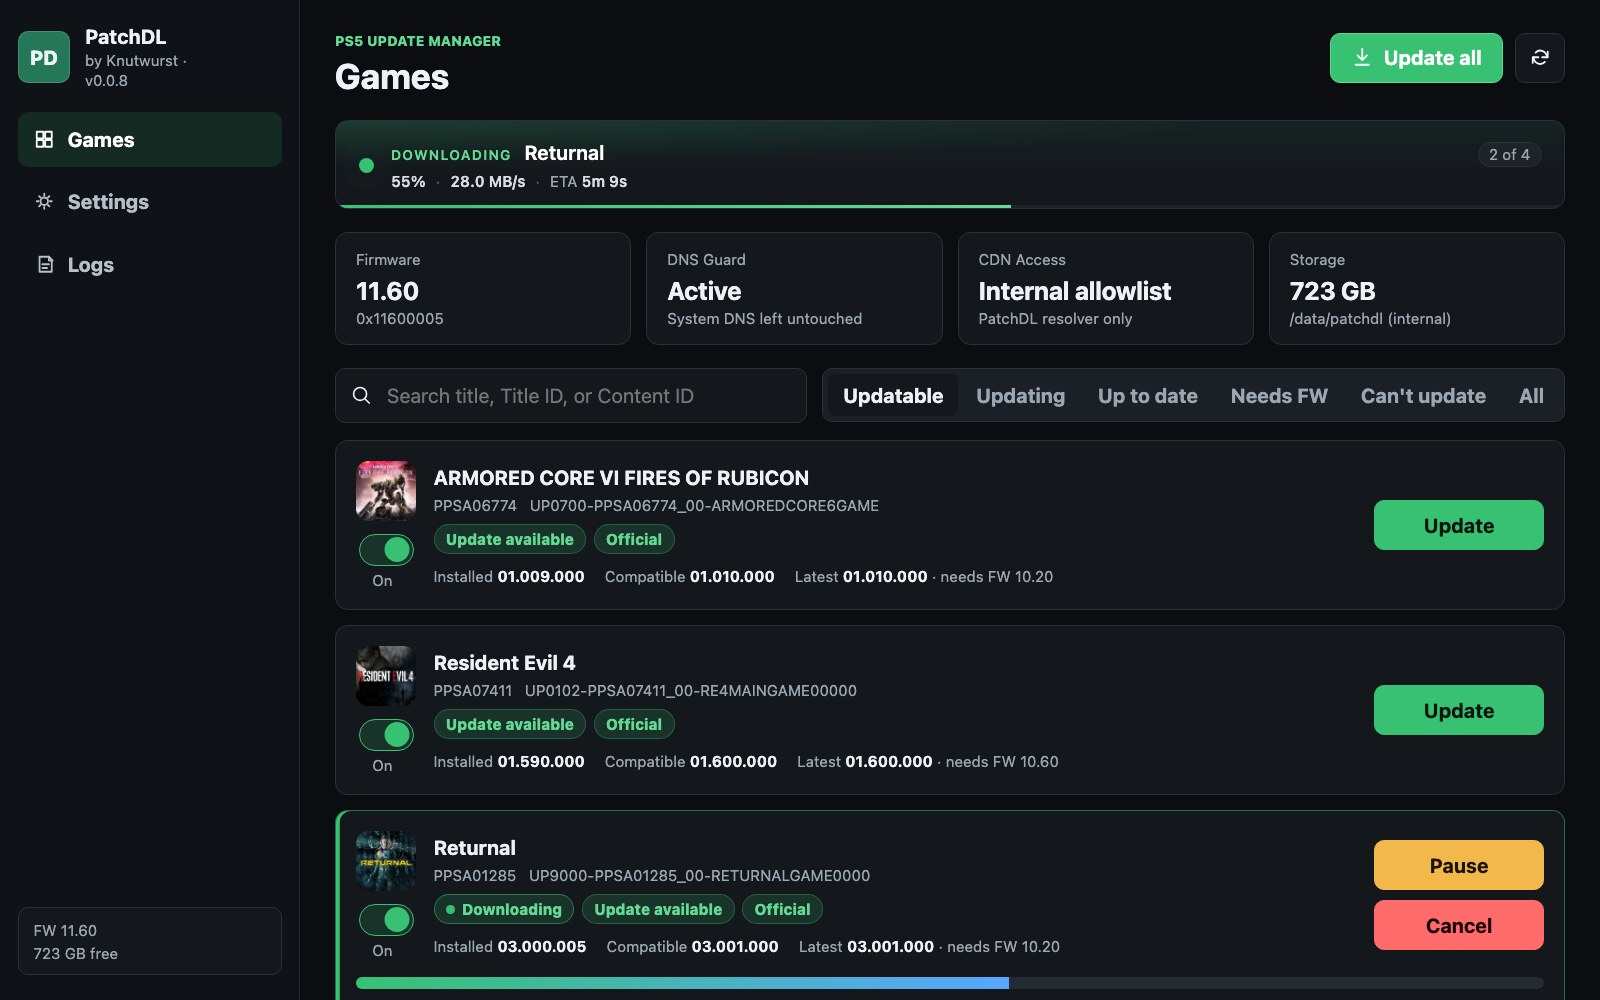
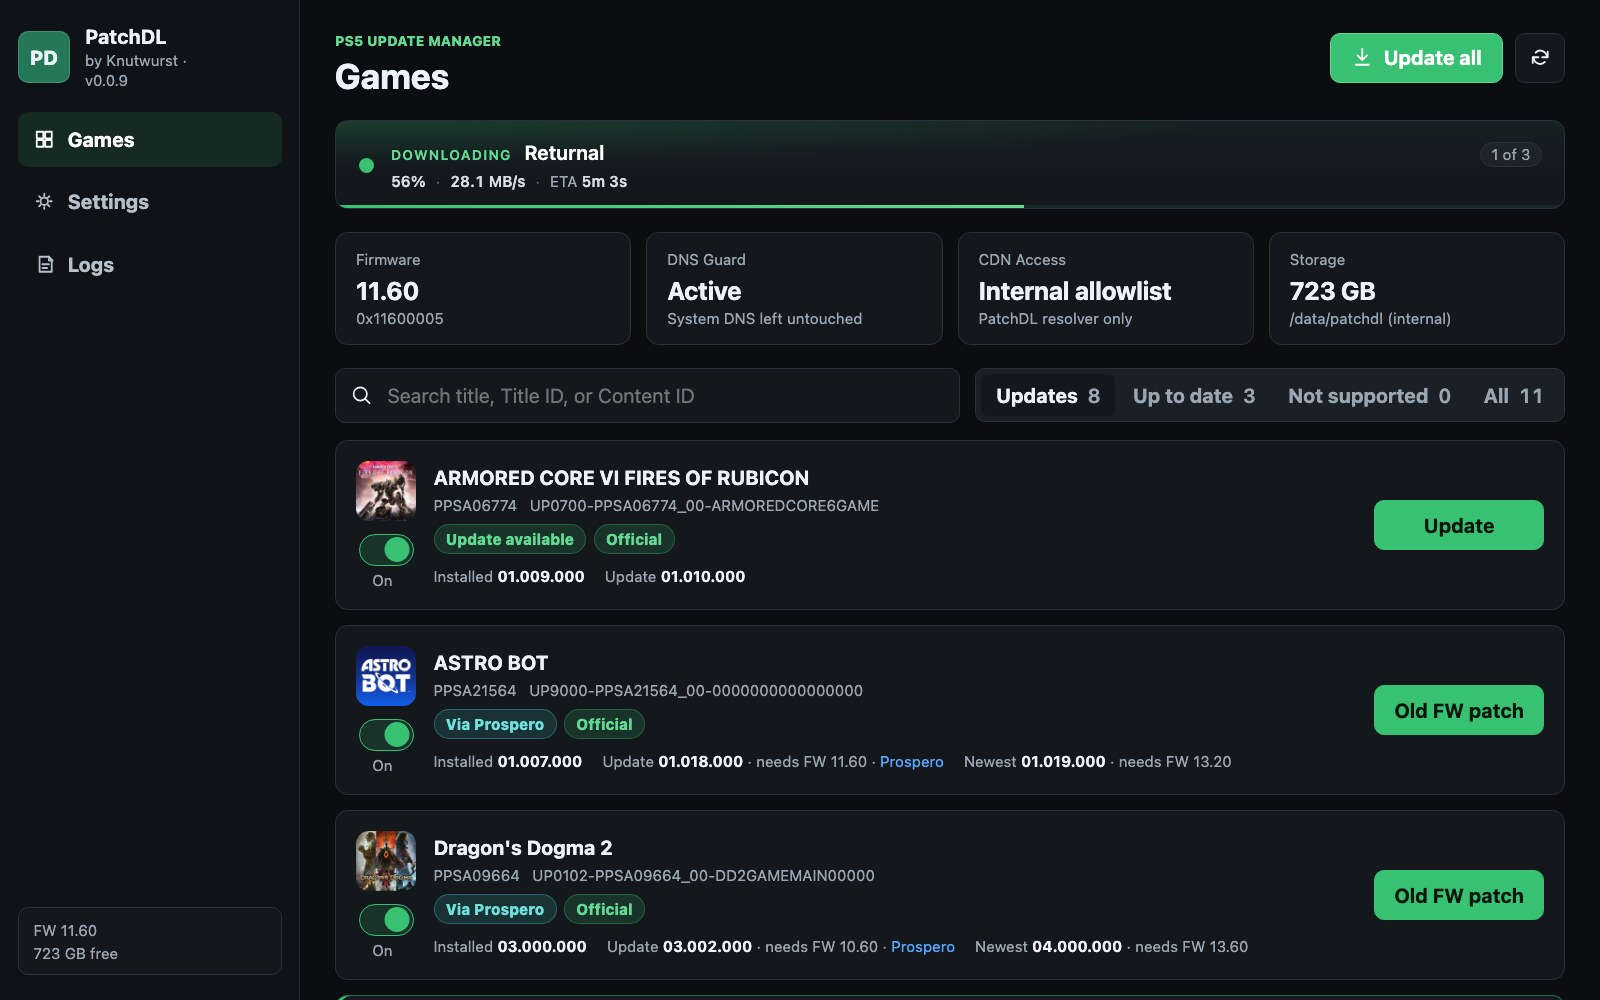
README: new screenshots with the old-firmware flow on TV and phone

diff --git a/README.md b/README.md
@@ -1,7 +1,7 @@
 <h1 align="center">PatchDL</h1>
 
 <p align="center">
-  <img src="docs/images/hero.jpg" alt="PatchDL in a desktop browser and on a phone, downloading a game update" width="900">
+  <img src="docs/images/hero.jpg" alt="PatchDL in a desktop browser and on a phone, fetching a patch that runs on an older firmware" width="900">
 </p>
 
 <p align="center">
@@ -46,7 +46,7 @@
     <td align="center" width="50%"><img src="docs/images/library.jpg" width="420" alt="Full library with game icons, sorted by name"><br><sub><b>Library</b> &nbsp;·&nbsp; icons, versions and firmware needs, A to Z</sub></td>
   </tr>
   <tr>
-    <td align="center" width="50%"><img src="docs/images/queue.jpg" width="420" alt="Updating view with two queued updates"><br><sub><b>Updating</b> &nbsp;·&nbsp; the queue, next to the download that's running</sub></td>
+    <td align="center" width="50%"><img src="docs/images/oldfw.jpg" width="420" alt="QR code on the TV and the step-by-step guide on a phone"><br><sub><b>Older firmware</b> &nbsp;·&nbsp; scan on the TV, paste one link on your phone</sub></td>
     <td align="center" width="50%"><img src="docs/images/settings.jpg" width="420" alt="Settings view"><br><sub><b>Settings</b> &nbsp;·&nbsp; changes apply right away, no restart</sub></td>
   </tr>
   <tr>
@@ -59,7 +59,7 @@
 Start an update from the couch with your phone, check on it from your laptop, or open it on the TV. The UI adapts to whatever screen it's on.
 
 <p align="center">
-  <img src="docs/images/phones.jpg" alt="PatchDL on a phone: game list with a download, and Settings" width="560">
+  <img src="docs/images/phones.jpg" alt="PatchDL on a phone: game list and Settings" width="560">
 </p>
 
 ## Get started
@@ -83,7 +83,7 @@ Games you installed from disc or from the PlayStation Store. PatchDL reads each 
 From Sony's official update servers, the same files your console downloads on its own. PatchDL downloads only from a short list of PlayStation CDN hosts. To find older patches it also asks [Prospero Patches](https://prosperopatches.com/) which versions exist for a game. That lookup sends the game's title ID and nothing else.
 
 **Can I get an older patch that runs on my firmware?**
-Yes. Sony still hosts older patches, but its servers only tell your console about the newest one. When that one needs a newer firmware, PatchDL looks up the version history on [Prospero Patches](https://prosperopatches.com/) and lists the game under *Updates* with an **Old FW patch** button. Tap it and scan the QR code with your phone. Open the game on Prospero, pick the version PatchDL names, pass the human check and copy the **SC** link. Paste it on your phone, and the PS5 downloads the patch from Sony and handles it like any other update.
+Yes. Sony still hosts older patches, but its servers only tell your console about the newest one. When that one needs a newer firmware, PatchDL looks up the version history on [Prospero Patches](https://prosperopatches.com/) and lists the game under *Updates* with an **Old FW patch** button. Tap it and scan the QR code with your phone. Open the game on Prospero, pick the version PatchDL names (confirm the human check if one shows up) and copy the **SC** link. Paste it on your phone, and the PS5 downloads the patch from Sony and handles it like any other update.
 
 **Does it change the updates?**
 No. Each package stays exactly as Sony published it, and the console's own installer applies it.
